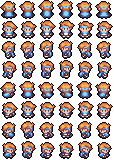
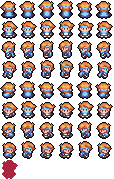
added enemies being able to shoot and to kill the player

diff --git a/frontend/GAME/index.js b/frontend/GAME/index.js
@@ -24,8 +24,10 @@ ctx.fillRect(0, 0, canvas.width, canvas.height);
 // Variables globales
 const texts = []; // Array para almacenar textos en pantalla
 let isGameOver = false;
-let timeBeforeRespawn = 0;
+let timeBeforeRespawn = 180; // Modifica este valor para cambiar el tiempo de respawn (60 frames = 1 segundo)
+const TOTAL_GAME_OVER_FRAMES = 11; // Total de frames en la animación de Game Over
 let gameOverScreen = null;
+let playerDamageFrames = 0; // Contador para los frames de daño
 
 const gameObjects = {
     background: null, // Se inicializará después
@@ -34,6 +36,8 @@ const gameObjects = {
     blueKnights: [],
     // Aquí podemos añadir más tipos de objetos en el futuro
 };
+
+const bullets = [];
 
 // Clase base para todos los objetos del juego
 class GameObject {
@@ -315,14 +319,15 @@ function Update() {
         if (timeBeforeRespawn > 0) {
             timeBeforeRespawn--;
             
-            const totalFrames = 11;
-            const frameIndex = Math.floor((500 - timeBeforeRespawn) / (500 / totalFrames));
+            // Calcular el frame actual basado en el tiempo restante
+            const frameIndex = Math.floor(
+                (1 - timeBeforeRespawn / ORIGINAL_TIME) * TOTAL_GAME_OVER_FRAMES
+            );
             
             const row = Math.floor(frameIndex / 3);
             const col = frameIndex % 3;
             
             ctx.clearRect(0, 0, canvas.width, canvas.height);
-            
             ctx.drawImage(
                 gameImages.gameOver,
                 col * (gameImages.gameOver.width / 3),
@@ -501,6 +506,53 @@ function Update() {
                 knight.update();
                 knight.draw(ctx);
             });
+            
+            // Actualizar y dibujar balas
+            for (let i = bullets.length - 1; i >= 0; i--) {
+                bullets[i].update();
+                
+                // Verificar si la bala golpea al jugador
+                if (bulletHitPlayer(bullets[i])) {
+                    playerHealth.takeDamage(1);
+                    playerDamageFrames = 2; // Activar frames de daño
+                    bullets.splice(i, 1);
+                    continue;
+                }
+                
+                // Verificar colisiones con boundaries
+                let bulletHitBoundary = false;
+                
+                // Verificar colisiones con paredes normales
+                for (const boundary of gameObjects.boundaries) {
+                    if (bulletCollision(bullets[i], boundary)) {
+                        bulletHitBoundary = true;
+                        break;
+                    }
+                }
+                
+                // Verificar colisiones con puertas
+                if (!bulletHitBoundary && isPlayerInBattle) {
+                    for (const door of gameObjects.doorBoundaries) {
+                        if (bulletCollision(bullets[i], door)) {
+                            bulletHitBoundary = true;
+                            break;
+                        }
+                    }
+                }
+                
+                // Si la bala golpeó algo o está muy lejos, eliminarla
+                const distanceFromPlayer = Math.hypot(
+                    bullets[i].x - playerX,
+                    bullets[i].y - playerY
+                );
+                
+                if (bulletHitBoundary || distanceFromPlayer > 500) {
+                    bullets.splice(i, 1);
+                    continue;
+                }
+                
+                bullets[i].draw(ctx);
+            }
         }
         
         const spriteWidth = 19;
@@ -535,22 +587,29 @@ function Update() {
 
         // Determinar fila y columna del sprite
         let row, column;
-        switch (lastDirection) {
-            case 'left':
-                row = 6;
-                break;
-            case 'right':
-                row = 7;
-                break;
-            case 'up':
-                row = 4;
-                break;
-            case 'down':
-                row = 5;
-                break;
+        if (playerDamageFrames > 0) {
+            // Si está en frames de daño, usar la novena fila (índice 8)
+            row = 8;
+            column = 1; // Frame estático
+            playerDamageFrames--; // Decrementar contador
+        } else {
+            // Animación normal
+            switch (lastDirection) {
+                case 'left':
+                    row = 6;
+                    break;
+                case 'right':
+                    row = 7;
+                    break;
+                case 'up':
+                    row = 4;
+                    break;
+                case 'down':
+                    row = 5;
+                    break;
+            }
+            column = isMoving ? currentFrame : 1;
         }
-        
-        column = isMoving ? currentFrame : 1;
 
         ctx.drawImage(
             gameImages.player,
@@ -835,6 +894,14 @@ class BlueKnight extends GameObject {
         this.currentEvasionDirection = null;
         this.directionChangeTimer = 0;
         this.directionChangeCooldown = 30; // Frames antes de poder cambiar de dirección
+        
+        // Añadir variables para el disparo
+        this.shootTimer = 0; // Frames antes de poder disparar
+        this.shootInterval = 70; // Disparar cada 26 frames
+        
+        // Cargar imagen de la bala
+        this.bulletImage = new Image();
+        this.bulletImage.src = 'img/bullet.png';
     }
     
     update() {
@@ -853,6 +920,13 @@ class BlueKnight extends GameObject {
 
         if (this.hasSeenPlayer) {
             this.handleMovement(distance, dx, dy);
+            
+            // Solo disparar si el enemigo está activo y en rango
+            this.shootTimer++;
+            if (this.shootTimer >= this.shootInterval && distance <= this.detectionRange) {
+                this.shoot();
+                this.shootTimer = 0;
+            }
         } else {
             // Animación inicial antes de detectar al jugador
             this.setIdleAnimation(dx, dy);
@@ -983,6 +1057,26 @@ class BlueKnight extends GameObject {
         super.moveWithMap(dx, dy);
         // No necesitamos actualizar this.position ya que usamos x,y directamente
     }
+    
+    shoot() {
+        const playerWorldX = -background.position.x + playerX;
+        const playerWorldY = -background.position.y + playerY;
+        const enemyWorldX = this.x - background.position.x;
+        const enemyWorldY = this.y - background.position.y;
+        
+        // Calcular dirección hacia el jugador
+        const dx = playerWorldX - enemyWorldX;
+        const dy = playerWorldY - enemyWorldY;
+        const angle = Math.atan2(dy, dx);
+        
+        // Crear nueva bala
+        bullets.push(new Bullet(
+            this.x + this.width/2,
+            this.y + this.height/2,
+            angle,
+            this.bulletImage
+        ));
+    }
 }
 
 //----------------------------------------
@@ -1051,7 +1145,6 @@ class HealthBar {
         
         if (this.currentHealth <= 0) {
             isGameOver = true;
-            timeBeforeRespawn = 500;
         }
     }
 
@@ -1070,6 +1163,7 @@ function resetGame() {
     isGameOver = false;
     isPlayerInBattle = false;
     playerHealth.currentHealth = playerHealth.maxHealth;
+    timeBeforeRespawn = ORIGINAL_TIME; // Restaurar al valor original
     
     // Reiniciar posición del mapa
     offset.x = 100;
@@ -1089,6 +1183,10 @@ function resetGame() {
         room.isCleared = false;
         room.isActive = false;
     });
+    
+    // Limpiar array de balas
+    bullets.length = 0;
+    playerDamageFrames = 0;
 }
 
 // Modificar la función que mueve los objetos cuando el jugador se mueve
@@ -1100,4 +1198,98 @@ function moveAllObjects(dx, dy) {
             objectGroup.moveWithMap(dx, dy);
         }
     });
+    
+    // Mover las balas con el mapa
+    bullets.forEach(bullet => bullet.moveWithMap(dx, dy));
 }
+
+//----------------------------------------
+// SISTEMA DE COLISIONES DE BALAS
+//----------------------------------------
+function bulletCollision(bullet, boundary) {
+    return (
+        bullet.x + bullet.width >= boundary.position.x &&
+        bullet.x <= boundary.position.x + boundary.width &&
+        bullet.y + bullet.height >= boundary.position.y &&
+        bullet.y <= boundary.position.y + boundary.height
+    );
+}
+
+//----------------------------------------
+// CLASE BULLET
+//----------------------------------------
+class Bullet extends GameObject {
+    constructor(x, y, angle, image) {
+        super(x, y);
+        this.speed = 1.5;
+        this.angle = angle;
+        this.image = image;
+        this.width = 10;
+        this.height = 6;
+        
+        // Calcular velocidades basadas en el ángulo
+        this.vx = Math.cos(angle) * this.speed;
+        this.vy = Math.sin(angle) * this.speed;
+    }
+    
+    //----------------------------------------
+    // ACTUALIZACIÓN DE LA BALA
+    //----------------------------------------
+    update() {
+        this.x += this.vx;
+        this.y += this.vy;
+    }
+    
+    //----------------------------------------
+    // RENDERIZADO DE LA BALA
+    //----------------------------------------
+    draw(ctx) {
+        // Guardar el contexto actual
+        ctx.save();
+        
+        // Trasladar al centro de la bala
+        ctx.translate(this.x + this.width/2, this.y + this.height/2);
+        
+        // Rotar según el ángulo
+        ctx.rotate(this.angle);
+        
+        // Dibujar la bala centrada
+        ctx.drawImage(
+            this.image,
+            -this.width/2,
+            -this.height/2,
+            this.width,
+            this.height
+        );
+        
+        // Restaurar el contexto
+        ctx.restore();
+    }
+    
+    //----------------------------------------
+    // MOVIMIENTO CON EL MAPA
+    //----------------------------------------
+    moveWithMap(dx, dy) {
+        super.moveWithMap(dx, dy);
+    }
+}
+
+// Primero, añadamos una función para detectar colisiones entre balas y jugador
+function bulletHitPlayer(bullet) {
+    const playerHitbox = {
+        x: playerX + 7,      // Mismo offset que usamos para otras colisiones
+        y: playerY + 8,
+        width: 12,           // Mismo tamaño que usamos para otras colisiones
+        height: 17
+    };
+    
+    return (
+        bullet.x + bullet.width >= playerHitbox.x &&
+        bullet.x <= playerHitbox.x + playerHitbox.width &&
+        bullet.y + bullet.height >= playerHitbox.y &&
+        bullet.y <= playerHitbox.y + playerHitbox.height
+    );
+}
+
+// Al inicio del juego, guardar el tiempo original
+const ORIGINAL_TIME = timeBeforeRespawn;
